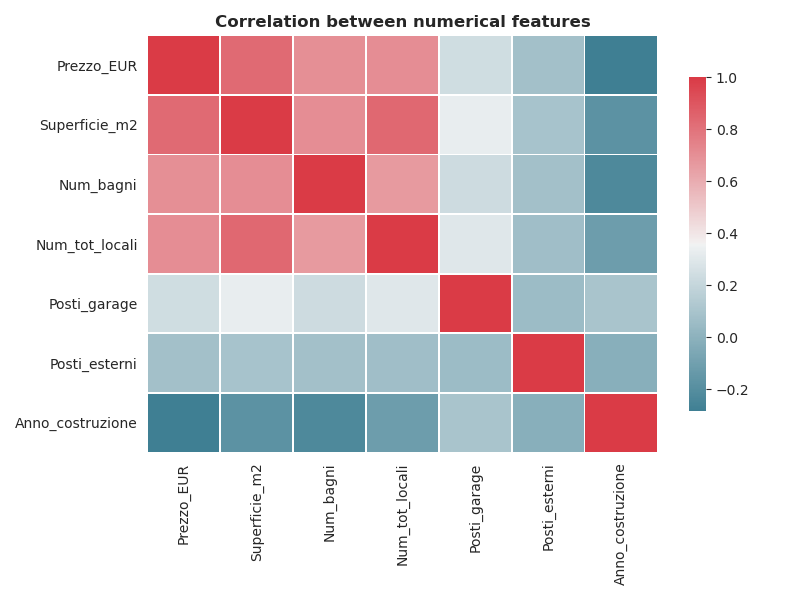
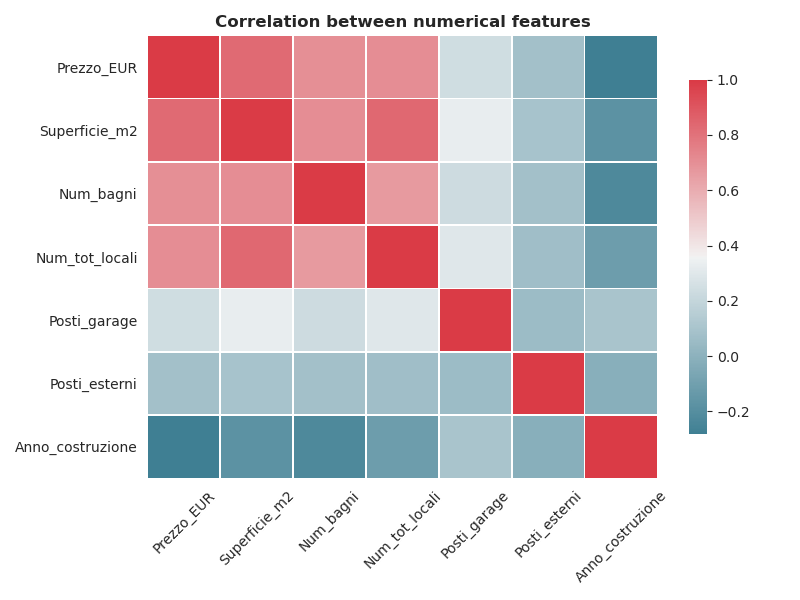
Add tight layout to scatter plot and rotate xticks on correlation plot.

diff --git a/src/visualization/plotting_utils.py b/src/visualization/plotting_utils.py
@@ -47,6 +47,7 @@ def scatterplot(data, x_col, y_col, hue_data, transformation=None):
 		plt.xlabel('{}'.format(x_col), size=14)
 		plt.ylabel('{}'.format(y_col), size=14)
 		plt.title('Price vs. square meters', size=14, weight='bold')
+	plt.tight_layout()
 	return fig
 
 
@@ -93,6 +94,7 @@ def correlation_plot(data, corr_cols):
 	cmap = sns.diverging_palette(220, 10, as_cmap=True)
 	sns.heatmap(data[corr_cols].corr(), linewidth=.5, cbar_kws={'shrink': .8}, cmap=cmap)
 	plt.title('Correlation between numerical features', weight='bold')
+	plt.xticks(rotation=45)
 	plt.tight_layout()
 	return fig
 
